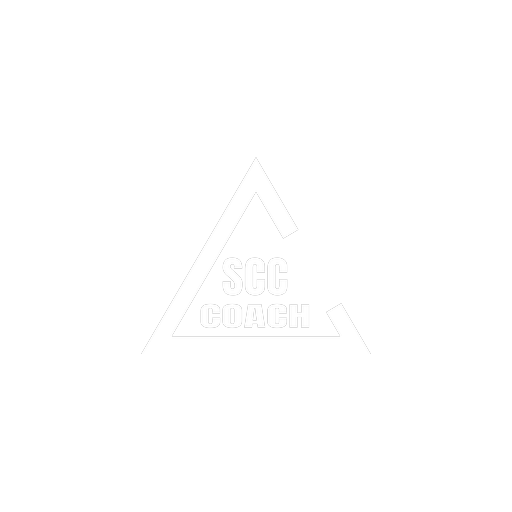
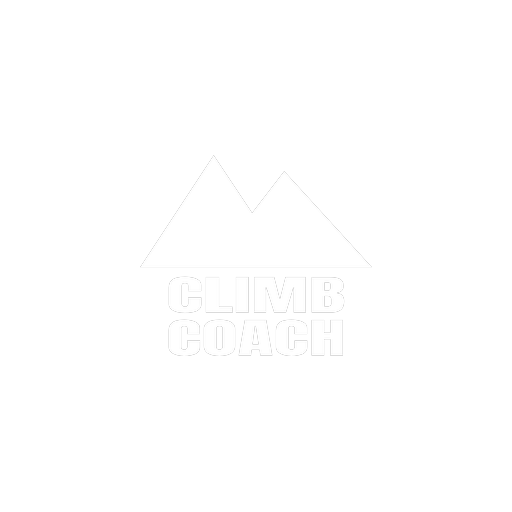
Generic branding on main: Climbing Coach Manager
The SCC-branded version (SCC Coach, open-peak icon) moves to the scc_brand
branch, in case the gym doesn't want its name and style tied to the app.
main is now brand-neutral:
- Name "Climbing Coach Manager" in the stores, titles, privacy policy and
  web app; home-screen label "Climb Coach" (iPhones truncate longer names).
- New icon: white peaks with CLIMB COACH in Anton, on black.
- Store guide and reviewer notes no longer need the gym's permission.

Claude-Session: https://claude.ai/code/session_01GL4pUqCvgkotNK2nwnsQUY

diff --git a/mobile/public/privacy.html b/mobile/public/privacy.html
@@ -3,8 +3,8 @@
 <head>
 <meta charset="utf-8">
 <meta name="viewport" content="width=device-width, initial-scale=1">
-<title>SCC Coach Privacy Policy</title>
-<meta name="description" content="How the SCC Coach app handles data.">
+<title>Climbing Coach Manager Privacy Policy</title>
+<meta name="description" content="How the Climbing Coach Manager app handles data.">
 <style>
   :root { --bg: #f6f5f2; --text: #1c1d1f; --muted: #6a6b6e; --accent: #2f6f5e; --line: #e1ded7; }
   @media (prefers-color-scheme: dark) { :root:not([data-theme="light"]) { --bg: #16181b; --text: #eceae6; --muted: #a3a5a8; --accent: #5fb39b; --line: #33373d; } }
@@ -21,20 +21,20 @@
 </head>
 <body>
 <main>
-  <h1>SCC Coach Privacy Policy</h1>
+  <h1>Climbing Coach Manager Privacy Policy</h1>
   <p class="muted">Effective October 4, 2026 · Published by <a href="https://dvssolutionsllc.com/">DVS Solutions LLC</a></p>
 
-  <p>SCC Coach is a free app that helps the coaches of a youth climbing team plan practices, keep their roster and exercise library, and record who attended. It is made and published by DVS Solutions LLC (“we”). This policy covers the Android and iPhone apps and the web version.</p>
+  <p>Climbing Coach Manager is a free app that helps the coaches of a youth climbing team plan practices, keep their roster and exercise library, and record who attended. It is made and published by DVS Solutions LLC (“we”). This policy covers the Android and iPhone apps and the web version.</p>
 
   <h2>The short version</h2>
   <ul>
-    <li>SCC Coach has <strong>no server</strong>. The team's information lives in a Google Sheet in the coaches' own Google accounts.</li>
+    <li>Climbing Coach Manager has <strong>no server</strong>. The team's information lives in a Google Sheet in the coaches' own Google accounts.</li>
     <li>The app has <strong>no ads, no analytics and no tracking</strong>, and it doesn't sell or share anyone's information.</li>
     <li>Nothing is sent to DVS Solutions LLC or anyone else.</li>
   </ul>
 
   <h2>Who uses the app</h2>
-  <p>SCC Coach is for <strong>coaches</strong>, who are adults. The team's athletes are minors, but they don't use the app, sign in, or have accounts. Coaches enter a small amount of information about athletes, described below. The app is not directed at children.</p>
+  <p>Climbing Coach Manager is for <strong>coaches</strong>, who are adults. The team's athletes are minors, but they don't use the app, sign in, or have accounts. Coaches enter a small amount of information about athletes, described below. The app is not directed at children.</p>
 
   <h2>What information the app handles</h2>
   <ul>
@@ -46,7 +46,7 @@
   <ul>
     <li><strong>The team's Google Sheet</strong>, in Google Drive, owned by the coach who created it and shared by them with other coaches. Google stores it under <a href="https://policies.google.com/privacy">Google's Privacy Policy</a>. Who can see it is controlled entirely by the Sheet's own Google sharing settings.</li>
     <li><strong>A copy on your device</strong>, so the app opens instantly and works without signal. On Android and iPhone this copy is encrypted, with its key kept in the phone's secure keystore, and it's excluded from device backups. In the web version it's kept in the browser's storage. "Sign out &amp; clear data" in the app, or uninstalling it, removes it.</li>
-    <li><strong>A list of the team Sheets you use</strong> (their names and locations only), kept on your device and in a private app-settings folder in your Google Drive that only SCC Coach can read, so signing in on another device finds your Sheet.</li>
+    <li><strong>A list of the team Sheets you use</strong> (their names and locations only), kept on your device and in a private app-settings folder in your Google Drive that only Climbing Coach Manager can read, so signing in on another device finds your Sheet.</li>
   </ul>
 
   <h2>Google permissions and how they're used</h2>
@@ -56,7 +56,7 @@
     <li><strong>Google Drive, files used with this app:</strong> to create a new team Sheet in your Drive when you ask it to, and to share it with coaches you name. It can't see other files in your Drive.</li>
     <li><strong>Google Drive, app settings:</strong> to keep the list of team Sheets you use in the app's private settings folder.</li>
   </ul>
-  <p>SCC Coach's use and transfer of information received from Google APIs adheres to the <a href="https://developers.google.com/terms/api-services-user-data-policy">Google API Services User Data Policy</a>, including the Limited Use requirements. Information from Google is used only to show and update the team's Sheet in the app, and is not used for advertising or transferred to anyone.</p>
+  <p>Climbing Coach Manager's use and transfer of information received from Google APIs adheres to the <a href="https://developers.google.com/terms/api-services-user-data-policy">Google API Services User Data Policy</a>, including the Limited Use requirements. Information from Google is used only to show and update the team's Sheet in the app, and is not used for advertising or transferred to anyone.</p>
 
   <h2>Sharing</h2>
   <p>The app doesn't share information with anyone. When a coach uses the app's Share screen, Google shares the Sheet with the people that coach names and emails them an invitation.</p>
@@ -65,7 +65,7 @@
   <ul>
     <li>Team information stays in the Sheet until coaches change or delete it, in the app or in Google Sheets.</li>
     <li>To remove the copy on a device, use "Sign out &amp; clear data" or uninstall the app.</li>
-    <li>To stop SCC Coach using your Google account, remove it at <a href="https://myaccount.google.com/permissions">myaccount.google.com/permissions</a>.</li>
+    <li>To stop Climbing Coach Manager using your Google account, remove it at <a href="https://myaccount.google.com/permissions">myaccount.google.com/permissions</a>.</li>
     <li>Parents or athletes who want information changed or removed can ask the team's coaches.</li>
   </ul>
 

diff --git a/mobile/src/google/drive.ts b/mobile/src/google/drive.ts
@@ -28,7 +28,7 @@ async function call<T>(url: string, token: string, init: { method?: string; body
   if (res.status === 404) {
     throw new SheetsError("This app can only manage sharing for Sheets it created. Share this one from Google Sheets instead.", "notFound");
   }
-  if (res.status === 403 && /insufficient|scope/i.test(reason)) throw new SheetsError("SCC Coach needs one more permission from Google.", "scope");
+  if (res.status === 403 && /insufficient|scope/i.test(reason)) throw new SheetsError("Climbing Coach Manager needs one more permission from Google.", "scope");
   if (res.status === 403) throw new SheetsError(reason || "Google didn't allow that. Only people who can edit the Sheet can share it.", "access");
   if (res.status === 400) throw new SheetsError(reason || "Google rejected that request.", "other");
   throw new SheetsError(`Google Drive returned an error (${res.status}). Try again in a moment.`, "other");
@@ -114,8 +114,8 @@ export async function addPerson(token: string, fileId: string, email: string, ro
   const params = new URLSearchParams({
     sendNotificationEmail: "true",
     emailMessage: app
-      ? `You've been added to the team's SCC Coach Sheet. Open the app here — it's ready to connect: ${app.replace(/\/?$/, "/")}?sheet=${fileId}`
-      : "You've been added to the team's SCC Coach Sheet. Open the SCC Coach app, choose \"Connect an existing Sheet\", and paste this link.",
+      ? `You've been added to the team's coaching Sheet. Open the app here — it's ready to connect: ${app.replace(/\/?$/, "/")}?sheet=${fileId}`
+      : "You've been added to the team's coaching Sheet. Open the Climbing Coach Manager app, choose \"Connect an existing Sheet\", and paste this link.",
   });
   await call(DRIVE + encodeURIComponent(fileId) + "/permissions?" + params, token, {
     method: "POST", contentType: "application/json", body: JSON.stringify({ type: "user", role, emailAddress: email }),

diff --git a/mobile/app.config.ts b/mobile/app.config.ts
@@ -21,7 +21,9 @@ const iosUrlScheme = iosClientId
   : "com.googleusercontent.apps.not-configured";
 
 const config: ExpoConfig = {
-  name: "SCC Coach",
+  // The home-screen label: iPhones cut names off after about 12 characters. The stores list it
+  // as "Climbing Coach Manager" (set in App Store Connect / Play Console).
+  name: "Climb Coach",
   slug: "rock-team",
   version: VERSION,
   orientation: "portrait",
@@ -72,16 +74,16 @@ const config: ExpoConfig = {
   web: {
     output: "single",
     favicon: "./assets/images/favicon.png",
-    name: "SCC Coach",
-    shortName: "SCC Coach",
+    name: "Climbing Coach Manager",
+    shortName: "Climb Coach",
     themeColor: "#2f6f5e",
     backgroundColor: "#f6f5f2",
   },
   plugins: [
     "expo-router",
     ["expo-splash-screen", { backgroundColor: "#000000", image: "./assets/images/splash-icon.png", imageWidth: 96 }],
-    ["expo-secure-store", { configureAndroidBackup: false, faceIDPermission: "SCC Coach uses Face ID to unlock the team's data." }],
-    ["expo-local-authentication", { faceIDPermission: "SCC Coach uses Face ID to unlock the team's data." }],
+    ["expo-secure-store", { configureAndroidBackup: false, faceIDPermission: "Climbing Coach Manager uses Face ID to unlock the team's data." }],
+    ["expo-local-authentication", { faceIDPermission: "Climbing Coach Manager uses Face ID to unlock the team's data." }],
     ["react-native-nitro-google-signin", { iosUrlScheme }],
     "@react-native-community/datetimepicker",
     "./plugins/with-gradle-jdk17",

diff --git a/mobile/src/app/(tabs)/more.tsx b/mobile/src/app/(tabs)/more.tsx
@@ -106,14 +106,14 @@ export default function More() {
         )}
         {LOCK_SUPPORTED && s.source?.kind === "sheet" && !s.lockAvailable && (
           <View style={{ marginHorizontal: -16, marginTop: 4 }}>
-            <Banner>This phone has no screen lock, so SCC Coach can't lock itself. Set a PIN or fingerprint in the phone's settings to protect the team data.</Banner>
+            <Banner>This phone has no screen lock, so Climbing Coach Manager can't lock itself. Set a PIN or fingerprint in the phone's settings to protect the team data.</Banner>
           </View>
         )}
       </Section>
 
       <Section title="About">
         <T small muted>
-          SCC Coach{Platform.OS === "web" ? " (web)" : ""} — everything shown comes from the team's Google Sheet, and every change is saved straight to it.
+          Climbing Coach Manager{Platform.OS === "web" ? " (web)" : ""} — everything shown comes from the team's Google Sheet, and every change is saved straight to it.
           This app keeps a copy on this {Platform.OS === "web" ? "device" : "phone (encrypted)"} so it opens instantly and works without signal; saving needs a connection.
         </T>
         <T small muted style={{ marginTop: 8 }}>Athletes are minors: keep notes climbing-specific — no medical or family details, no photos.</T>

diff --git a/mobile/src/app/_layout.tsx b/mobile/src/app/_layout.tsx
@@ -44,7 +44,7 @@ export default function RootLayout() {
         contentStyle: { backgroundColor: t.bg },
       }}>
         <Stack.Protected guard={hasData}>
-          <Stack.Screen name="(tabs)" options={{ headerShown: false, title: "SCC Coach" }} />
+          <Stack.Screen name="(tabs)" options={{ headerShown: false, title: "Climbing Coach Manager" }} />
           <Stack.Screen name="athlete/[row]" options={{ title: "Athlete" }} />
           <Stack.Screen name="exercise/[row]" options={{ title: "Exercise" }} />
           <Stack.Screen name="edit/block" options={{ presentation: "modal", title: "Workout block" }} />
@@ -60,7 +60,7 @@ export default function RootLayout() {
           <Stack.Screen name="new-team" options={{ title: "New team Sheet" }} />
         </Stack.Protected>
         <Stack.Protected guard={!hasData}>
-          <Stack.Screen name="connect" options={{ headerShown: false, title: "SCC Coach" }} />
+          <Stack.Screen name="connect" options={{ headerShown: false, title: "Climbing Coach Manager" }} />
           <Stack.Screen name="setup" options={{ title: "New team Sheet" }} />
         </Stack.Protected>
       </Stack>

diff --git a/mobile/src/app/share.tsx b/mobile/src/app/share.tsx
@@ -62,7 +62,7 @@ export default function Share() {
       <ScrollView contentContainerStyle={{ padding: 16, paddingBottom: 40, width: "100%", maxWidth: MAX_WIDTH, alignSelf: "center" }} keyboardShouldPersistTaps="handled">
         {blocked ? <View style={{ marginHorizontal: -16 }}><Banner>{blocked}</Banner></View> : (
           <>
-            <T muted>Everyone you add can see the athletes' details, so only share with coaches. Google emails them a link; they open the SCC Coach app, choose "Connect an existing Sheet", and paste it.</T>
+            <T muted>Everyone you add can see the athletes' details, so only share with coaches. Google emails them a link; they open the Climbing Coach Manager app, choose "Connect an existing Sheet", and paste it.</T>
 
             {people !== null && !listError && <Section title="Invite a coach">
               <TextField label="Their Google account email" value={email} onChange={setEmail} keyboardType="email-address" autoCapitalize="none" placeholder="coach@gmail.com" />

diff --git a/mobile/src/core/schema/validate.ts b/mobile/src/core/schema/validate.ts
@@ -14,8 +14,8 @@ export function missingTabs(sheetTitles: string[]): string[] {
 
 export function validateSheet(sheetTitles: string[], raw?: RawRanges): string[] {
   const missing = missingTabs(sheetTitles);
-  if (missing.length === 1) return [`This doesn't look like an SCC Coach team Sheet — missing a '${missing[0]}' tab.`];
-  if (missing.length) return [`This doesn't look like an SCC Coach team Sheet — missing these tabs: ${missing.map((t) => `'${t}'`).join(", ")}.`];
+  if (missing.length === 1) return [`This doesn't look like a Climbing Coach Manager team Sheet — missing a '${missing[0]}' tab.`];
+  if (missing.length) return [`This doesn't look like a Climbing Coach Manager team Sheet — missing these tabs: ${missing.map((t) => `'${t}'`).join(", ")}.`];
   if (!raw) return [];
   const problems: string[] = [];
   for (const [key, expected] of Object.entries(EXPECTED_HEADERS) as [keyof typeof EXPECTED_HEADERS, Record<number, string>][]) {

diff --git a/mobile/test/parse.test.ts b/mobile/test/parse.test.ts
@@ -45,13 +45,13 @@ describe("schema validation", () => {
 
   it("names the missing tab", () => {
     expect(validateSheet(demo.sheetTitles.filter((t) => t !== "Athlete Profiles"))).toEqual([
-      "This doesn't look like an SCC Coach team Sheet — missing a 'Athlete Profiles' tab.",
+      "This doesn't look like a Climbing Coach Manager team Sheet — missing a 'Athlete Profiles' tab.",
     ]);
   });
 
   it("lists several missing tabs in one message", () => {
     expect(validateSheet(["Sheet1"])).toEqual([
-      "This doesn't look like an SCC Coach team Sheet — missing these tabs: 'Settings', 'Athlete Profiles', 'Coach Profiles', 'Exercise Library', 'Log a Workout', 'Progress Log'.",
+      "This doesn't look like a Climbing Coach Manager team Sheet — missing these tabs: 'Settings', 'Athlete Profiles', 'Coach Profiles', 'Exercise Library', 'Log a Workout', 'Progress Log'.",
     ]);
   });
 

diff --git a/mobile/src/app/connect.tsx b/mobile/src/app/connect.tsx
@@ -38,7 +38,7 @@ export default function Connect() {
       <ScrollView contentContainerStyle={{ padding: 20, paddingTop: insets.top + 32, paddingBottom: insets.bottom + 24, width: "100%", maxWidth: 480, alignSelf: "center" }} keyboardShouldPersistTaps="handled">
         <View style={{ alignItems: "center", gap: 10, marginBottom: 24 }}>
           <Image source={require("@/assets/images/icon.png")} style={{ width: 84, height: 84, borderRadius: 20 }} accessibilityIgnoresInvertColors />
-          <H2>SCC Coach</H2>
+          <H2>Climbing Coach Manager</H2>
           <T muted style={{ textAlign: "center" }}>Practice plans, roster and exercise library — kept in a Google Sheet your coaches share.</T>
         </View>
 

diff --git a/mobile/src/ui/LockScreen.tsx b/mobile/src/ui/LockScreen.tsx
@@ -13,7 +13,7 @@ export function LockScreen() {
   return (
     <View style={[StyleSheet.absoluteFill, { backgroundColor: t.bg, alignItems: "center", justifyContent: "center", padding: 32, gap: 16 }]}>
       <Icon name="lock" size={56} color={t.accent} />
-      <H2>SCC Coach is locked</H2>
+      <H2>Climbing Coach Manager is locked</H2>
       <T muted style={{ textAlign: "center" }}>Team data is protected with your phone's screen lock.</T>
       <Button label="Unlock" kind="primary" onPress={unlockApp} style={{ alignSelf: "stretch" }} />
     </View>

diff --git a/mobile/src/app/setup.tsx b/mobile/src/app/setup.tsx
@@ -19,7 +19,7 @@ function defaults(): NewSheetOptions {
   const now = new Date();
   const y = now.getMonth() >= 6 ? now.getFullYear() : now.getFullYear() - 1; // seasons start in the fall
   return {
-    name: `SCC Climbing Team ${y}–${String((y + 1) % 100).padStart(2, "0")}`,
+    name: `Climbing Team ${y}–${String((y + 1) % 100).padStart(2, "0")}`,
     team: {
       groups: ["Advanced", "Intermediate", "Developing"].map((name) => ({ name, was: null })),
       practiceDays: ["Monday", "Tuesday", "Thursday"],

diff --git a/mobile/src/platform/lock.ts b/mobile/src/platform/lock.ts
@@ -20,6 +20,6 @@ export async function canLock(): Promise<boolean> {
 }
 
 export async function unlock(): Promise<boolean> {
-  const res = await LocalAuthentication.authenticateAsync({ promptMessage: "Unlock SCC Coach", disableDeviceFallback: false });
+  const res = await LocalAuthentication.authenticateAsync({ promptMessage: "Unlock Climb Coach", disableDeviceFallback: false });
   return res.success;
 }
